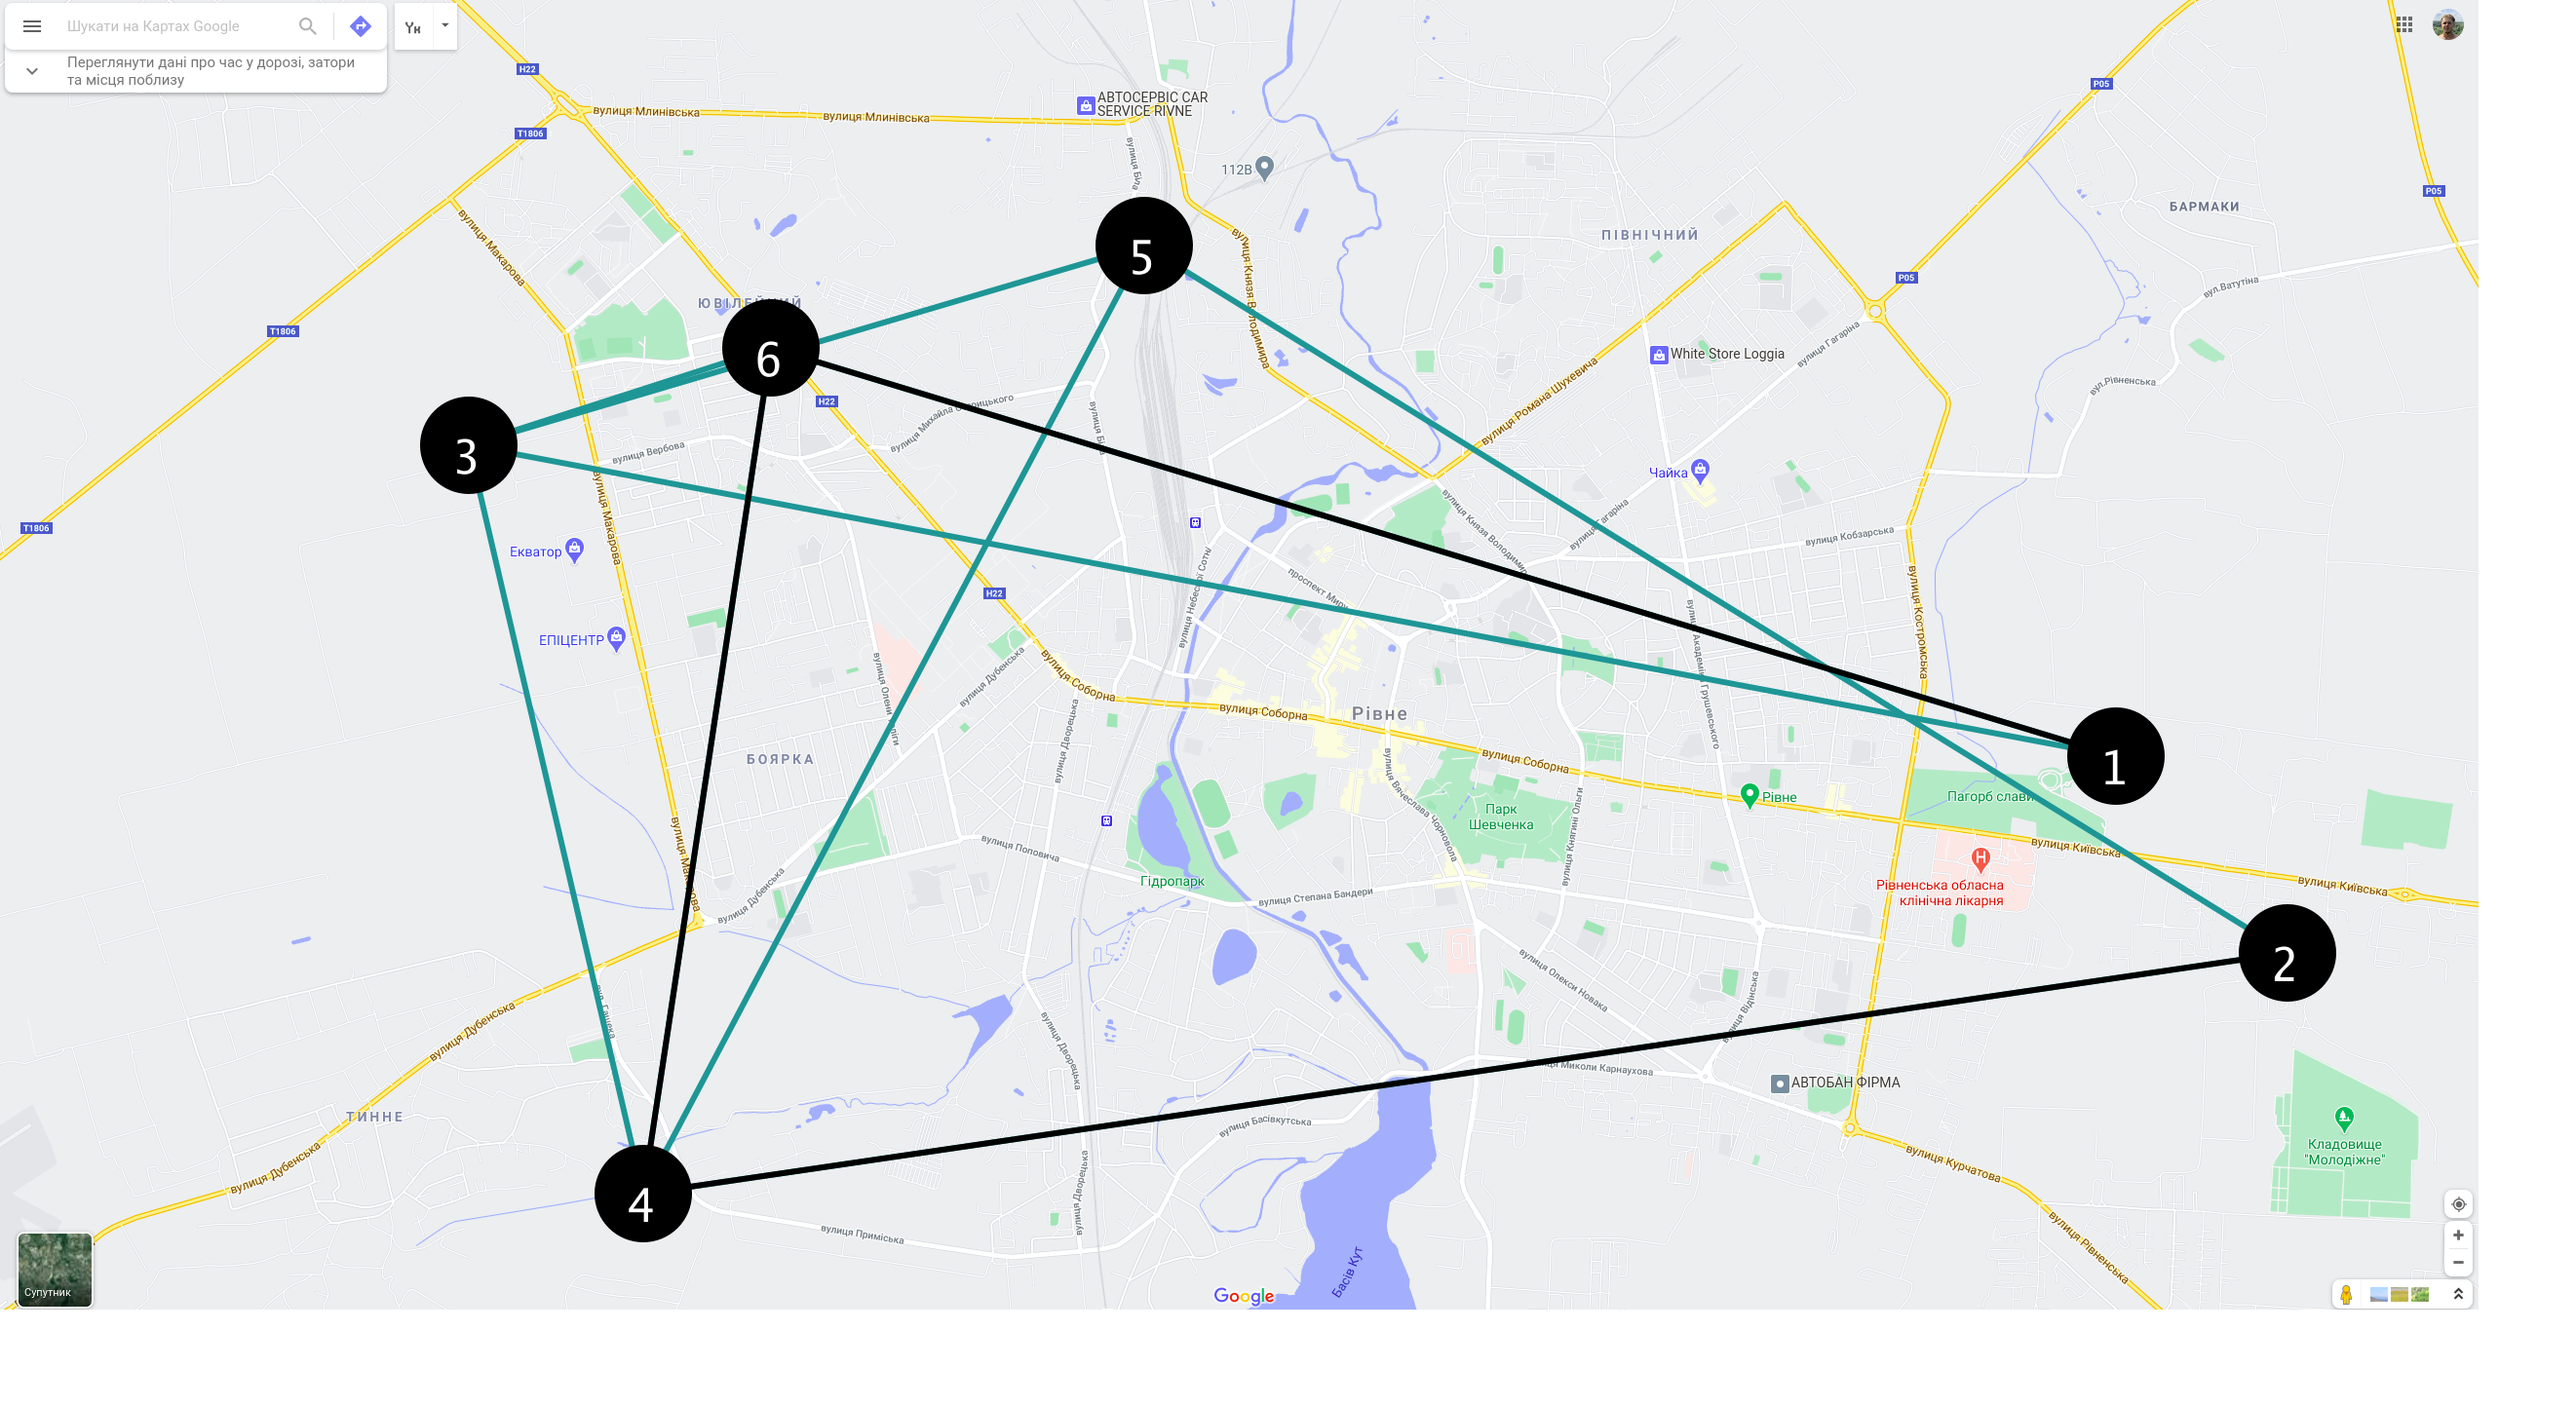
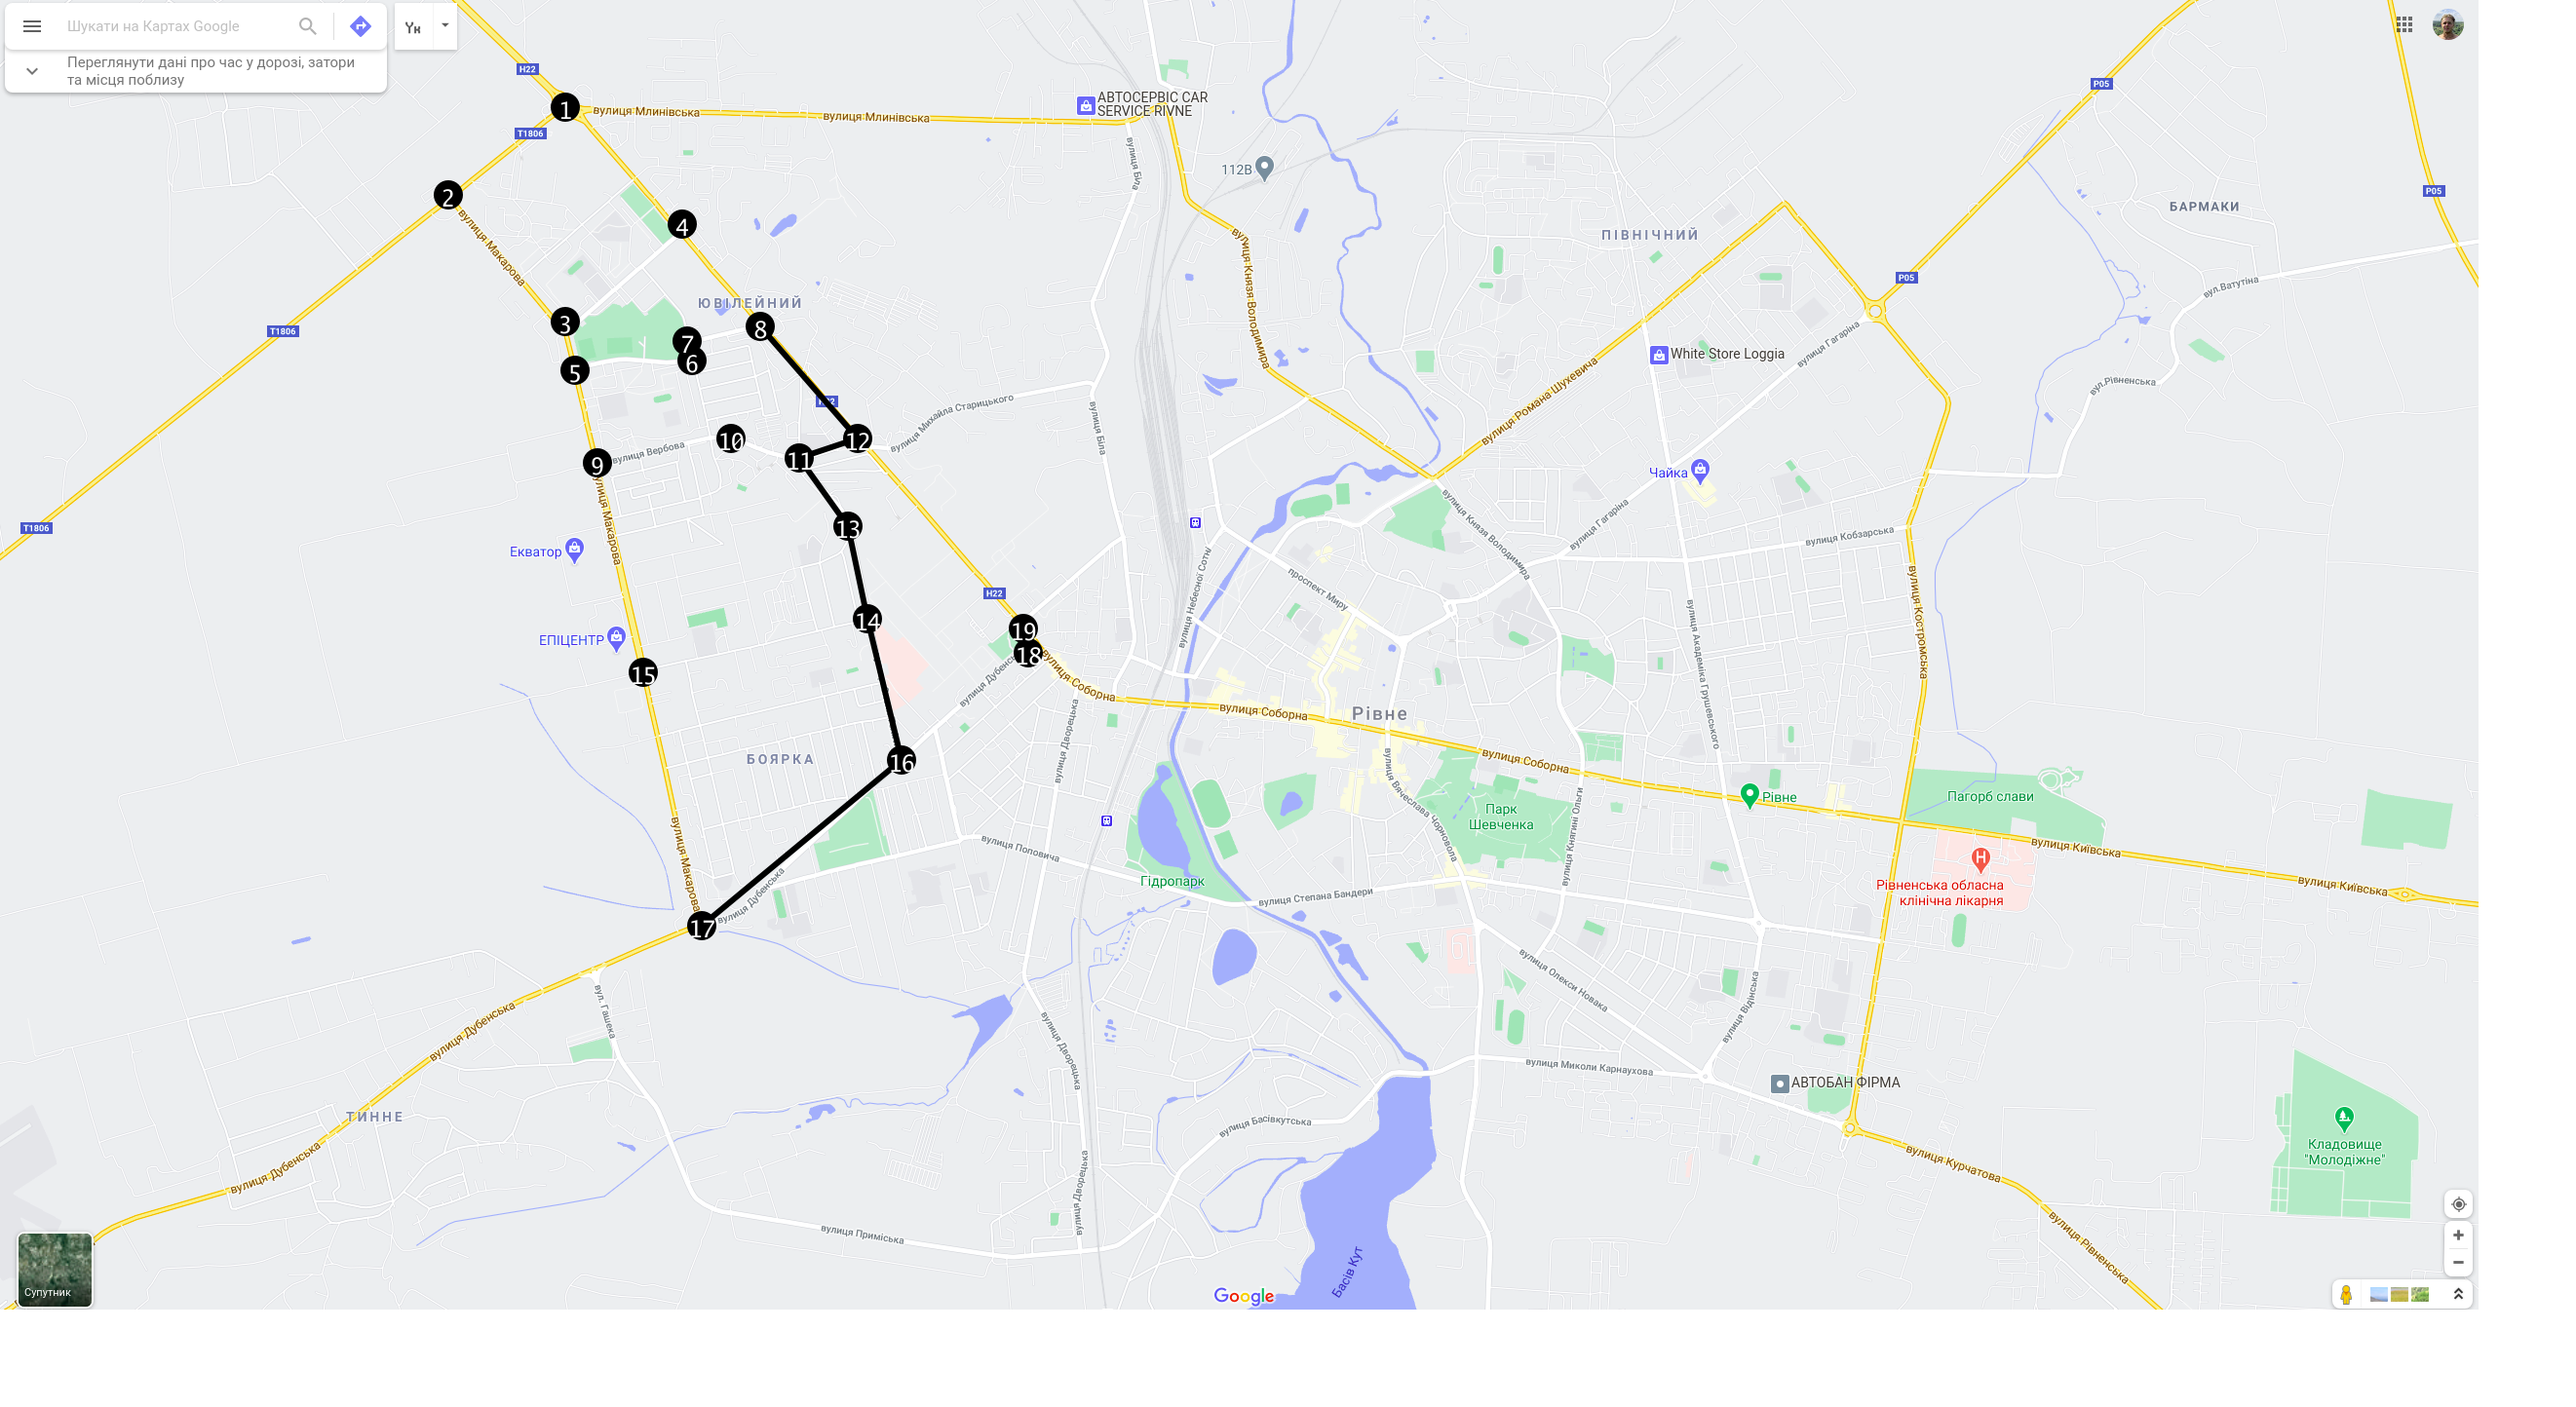
finish navigator

diff --git a/main.go b/main.go
@@ -4,8 +4,6 @@ import (
 	"fmt"
 	"log"
 	"math"
-	"math/rand"
-	"time"
 
 	"github.com/fogleman/gg"
 	"github.com/golang/freetype/truetype"
@@ -70,6 +68,7 @@ func path(copt, m [][]int, a, b, n int) []int {
 			return res
 		}
 	}
+	res = append(res, b)
 	return res
 }
 
@@ -91,15 +90,28 @@ func main() {
 	// 	{100, 3, 4, 2, 0, 100},
 	// 	{100, 100, 1, 100, 4, 0}}
 	m := [][]int{
-		{0, 100, 4, 100, 100, 2},
-		{100, 0, 100, 1, 2, 100},
-		{4, 100, 0, 2, 4, 3},
-		{100, 1, 2, 0, 3, 3},
-		{100, 2, 4, 3, 0, 100},
-		{2, 100, 3, 3, 100, 0},
+		{0, 10, 10, 100, 100, 100, 100, 100, 100, 100, 100, 100, 100, 100, 100, 100, 100, 100, 100},   //1
+		{10, 0, 10, 100, 100, 100, 100, 100, 100, 100, 100, 100, 100, 100, 100, 100, 100, 100, 100},   //2
+		{100, 10, 0, 10, 3, 100, 100, 100, 100, 100, 100, 100, 100, 100, 100, 100, 100, 100, 100},     //3
+		{10, 100, 10, 0, 100, 100, 100, 8, 100, 100, 100, 100, 100, 100, 100, 100, 100, 100, 100},     //4
+		{100, 100, 3, 100, 0, 8, 100, 100, 7, 100, 100, 100, 100, 100, 100, 100, 100, 100, 100},       //5
+		{100, 100, 100, 100, 6, 0, 1, 100, 100, 7, 100, 100, 100, 100, 100, 100, 100, 100, 100},       //6
+		{100, 100, 100, 100, 100, 100, 0, 100, 100, 100, 100, 100, 100, 100, 100, 100, 100, 100, 100}, //7
+		{100, 100, 100, 9, 100, 100, 4, 0, 100, 100, 100, 10, 100, 100, 100, 100, 100, 100, 100},      //8
+		{100, 100, 100, 100, 7, 100, 100, 100, 0, 10, 100, 100, 100, 100, 14, 100, 100, 100, 100},     //9
+		{100, 100, 100, 100, 100, 5, 100, 100, 10, 0, 3, 100, 100, 100, 100, 100, 100, 100, 100},      //10
+		{100, 100, 100, 100, 100, 100, 100, 100, 100, 3, 0, 3, 4, 100, 100, 100, 100, 100, 100},       //11
+		{100, 100, 100, 100, 100, 100, 100, 9, 100, 100, 3, 0, 100, 100, 100, 100, 100, 100, 18},      //12
+		{100, 100, 100, 100, 100, 100, 100, 100, 100, 100, 4, 100, 0, 4, 100, 100, 100, 100, 100},     //13
+		{100, 100, 100, 100, 100, 100, 100, 100, 100, 100, 100, 100, 4, 0, 13, 10, 100, 100, 100},     //14
+		{100, 100, 100, 100, 100, 100, 100, 100, 13, 100, 100, 100, 100, 13, 0, 100, 14, 100, 100},    //15
+		{100, 100, 100, 100, 100, 100, 100, 100, 100, 100, 100, 100, 100, 9, 100, 0, 13, 10, 100},     //16
+		{100, 100, 100, 100, 100, 100, 100, 100, 100, 100, 100, 100, 100, 100, 13, 13, 0, 100, 100},   //17
+		{100, 100, 100, 100, 100, 100, 100, 100, 100, 100, 100, 100, 100, 100, 100, 10, 100, 0, 1},    //18
+		{100, 100, 100, 100, 100, 100, 100, 100, 100, 100, 100, 14, 100, 100, 100, 100, 100, 1, 0},    //19
 	}
 
-	n := 6
+	n := 19
 
 	C := m
 	for {
@@ -113,7 +125,7 @@ func main() {
 		}
 	}
 
-	p := path(C, m, 1, 2, n)
+	p := path(C, m, 17, 8, n)
 	draw(m, p, "graph")
 	for i := 0; i < len(p); i++ {
 		p[i]++
@@ -164,7 +176,7 @@ func draw(r [][]int, path []int, filename string) {
 		log.Fatal(err)
 	}
 
-	face := truetype.NewFace(font, &truetype.Options{Size: 48})
+	face := truetype.NewFace(font, &truetype.Options{Size: 24})
 	dc.SetFontFace(face)
 
 	drawNodes(r, path, dc)
@@ -172,35 +184,54 @@ func draw(r [][]int, path []int, filename string) {
 }
 
 func drawNodes(r [][]int, path []int, dc *gg.Context) {
-	nodes := make([]node, 0, 6)
-	rand.Seed(time.Now().UnixNano())
-	nodes = append(nodes, node{x: float64(rand.Intn(w - 100)), y: float64(rand.Intn(h - 100))})
-	for len(nodes) < 6 {
-		for {
-			x, y := float64(rand.Intn(w-200)+100), float64(rand.Intn(h-200)+100)
-			if check(nodes, x, y) {
-				nodes = append(nodes, node{x, y})
-				break
-			}
-		}
-	}
+	nodes := make([]node, 0, 0)
+	// rand.Seed(time.Now().UnixNano())
+	// nodes = append(nodes, node{x: float64(rand.Intn(w - 100)), y: float64(rand.Intn(h - 100))})
+	// for len(nodes) < 6 {
+	// 	for {
+	// 		x, y := float64(rand.Intn(w-200)+100), float64(rand.Intn(h-200)+100)
+	// 		if check(nodes, x, y) {
+	// 			nodes = append(nodes, node{x, y})
+	// 			break
+	// 		}
+	// 	}
+	// }
+	nodes = append(nodes, node{x: 580, y: 110})
+	nodes = append(nodes, node{x: 460, y: 200})
+	nodes = append(nodes, node{x: 580, y: 330})
+	nodes = append(nodes, node{x: 700, y: 230})
+	nodes = append(nodes, node{x: 590, y: 380})
+	nodes = append(nodes, node{x: 710, y: 370})
+	nodes = append(nodes, node{x: 705, y: 350})
+	nodes = append(nodes, node{x: 780, y: 335})
+	nodes = append(nodes, node{x: 613, y: 475})
+	nodes = append(nodes, node{x: 750, y: 450})
+	nodes = append(nodes, node{x: 820, y: 470})
+	nodes = append(nodes, node{x: 880, y: 450})
+	nodes = append(nodes, node{x: 870, y: 540})
+	nodes = append(nodes, node{x: 890, y: 635})
+	nodes = append(nodes, node{x: 660, y: 690})
+	nodes = append(nodes, node{x: 925, y: 780})
+	nodes = append(nodes, node{x: 720, y: 950})
+	nodes = append(nodes, node{x: 1055, y: 670})
+	nodes = append(nodes, node{x: 1050, y: 645})
 
-	drawDirections(r, nodes, dc)
+	// drawDirections(r, nodes, dc)
 	drawPath(r, nodes, path, dc)
 
 	for k, v := range nodes {
-		if r[k][k] == 0 {
-			dc.DrawCircle(v.x, v.y, 50)
-			dc.SetRGB(0, 0, 0)
-			dc.Fill()
-		} else {
-			dc.DrawCircle(v.x, v.y, 50)
-			dc.SetRGB(7, 45, 239)
-			dc.Fill()
-		}
+		// if r[k][k] == 0 {
+		dc.DrawCircle(v.x, v.y, 15)
+		dc.SetRGB(0, 0, 0)
+		dc.Fill()
+		// } else {
+		// 	dc.DrawCircle(v.x, v.y, 20)
+		// 	dc.SetRGB(7, 45, 239)
+		// 	dc.Fill()
+		// }
 
 		dc.SetRGB(1, 1, 1)
-		dc.DrawStringAnchored(fmt.Sprint(k+1), v.x, v.y, 0.6, 0.6)
+		dc.DrawStringAnchored(fmt.Sprint(k+1), v.x, v.y, 0.5, 0.5)
 		dc.Fill()
 
 	}
@@ -220,8 +251,8 @@ func check(nodes []node, x, y float64) bool {
 }
 
 func drawDirections(r [][]int, nodes []node, dc *gg.Context) {
-	for i := 0; i < 6; i++ {
-		for j := 0; j < 6; j++ {
+	for i := 0; i < 19; i++ {
+		for j := 0; j < 19; j++ {
 			if r[i][j] == 100 {
 				continue
 			}
